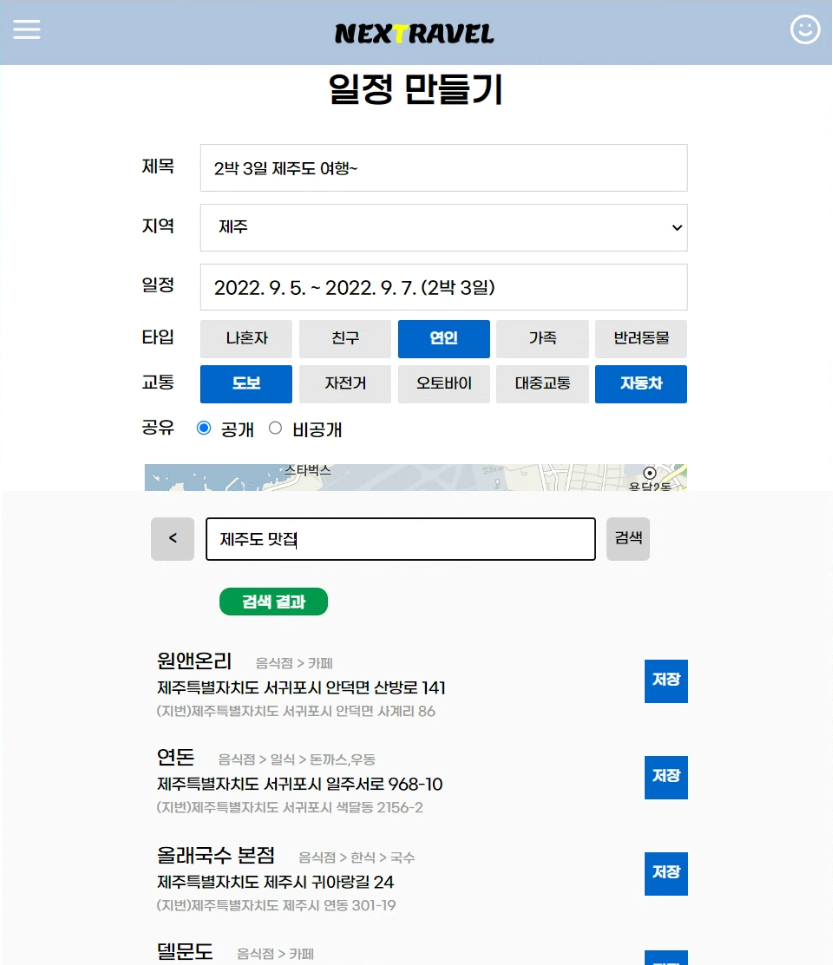
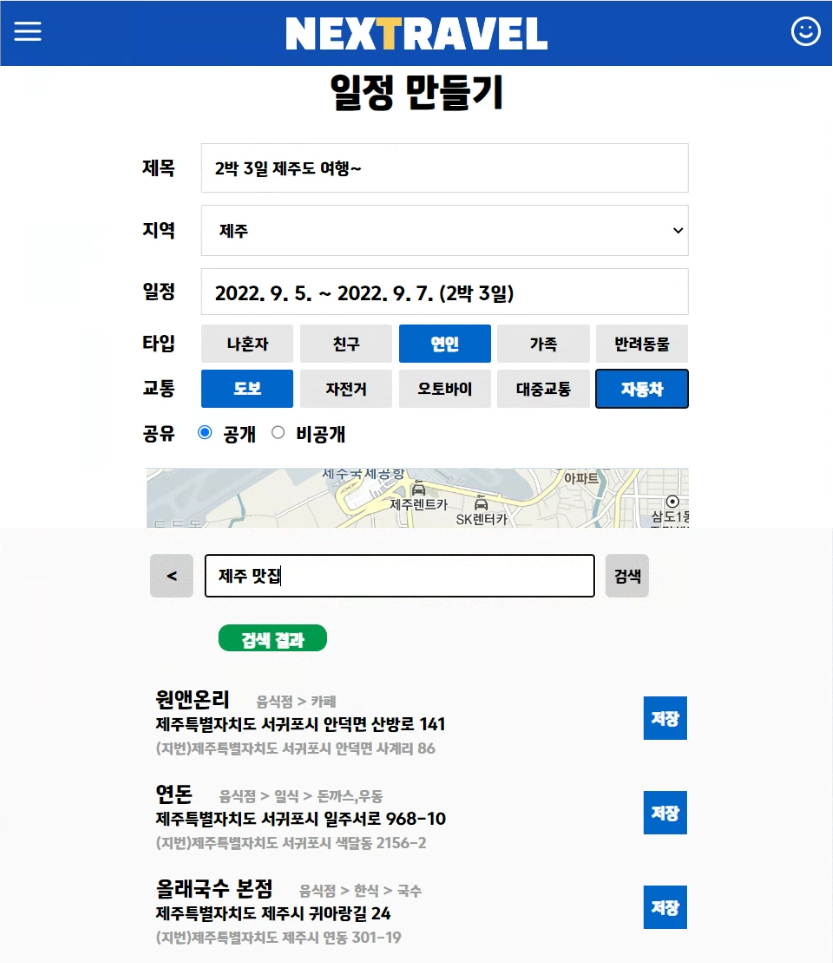
20220902 업데이트
이미지 최신화 반영, 내 일정 보기에서 맵이 가운데정렬되어있지 않은 현상 수정

diff --git a/travel-basket/src/App.js b/travel-basket/src/App.js
@@ -14,8 +14,7 @@ import Header from '../src/components/Header/Header';
 import Loading from '../src/components/Header/Loading';
 import NotFound from '../src/components/Header/NotFound';
 import Scheduleboard from '../src/components/Header/Scheduleboard';
-import HowToUse from './components/Header/HowToUse'; //220902 선우 이용안내
-
+import HowToUse from './components/Header/HowToUse';
 /* Basket */
 import Basket from '../src/components/Basket/Basket';
 

diff --git a/travel-basket/src/components/MyPlan/MyPlan.scss b/travel-basket/src/components/MyPlan/MyPlan.scss
@@ -27,6 +27,7 @@
   width: 500px;
   height: 360px;
   overflow: hidden;
+  margin:0 auto;
 //   margin: 10px auto;
 }
 
